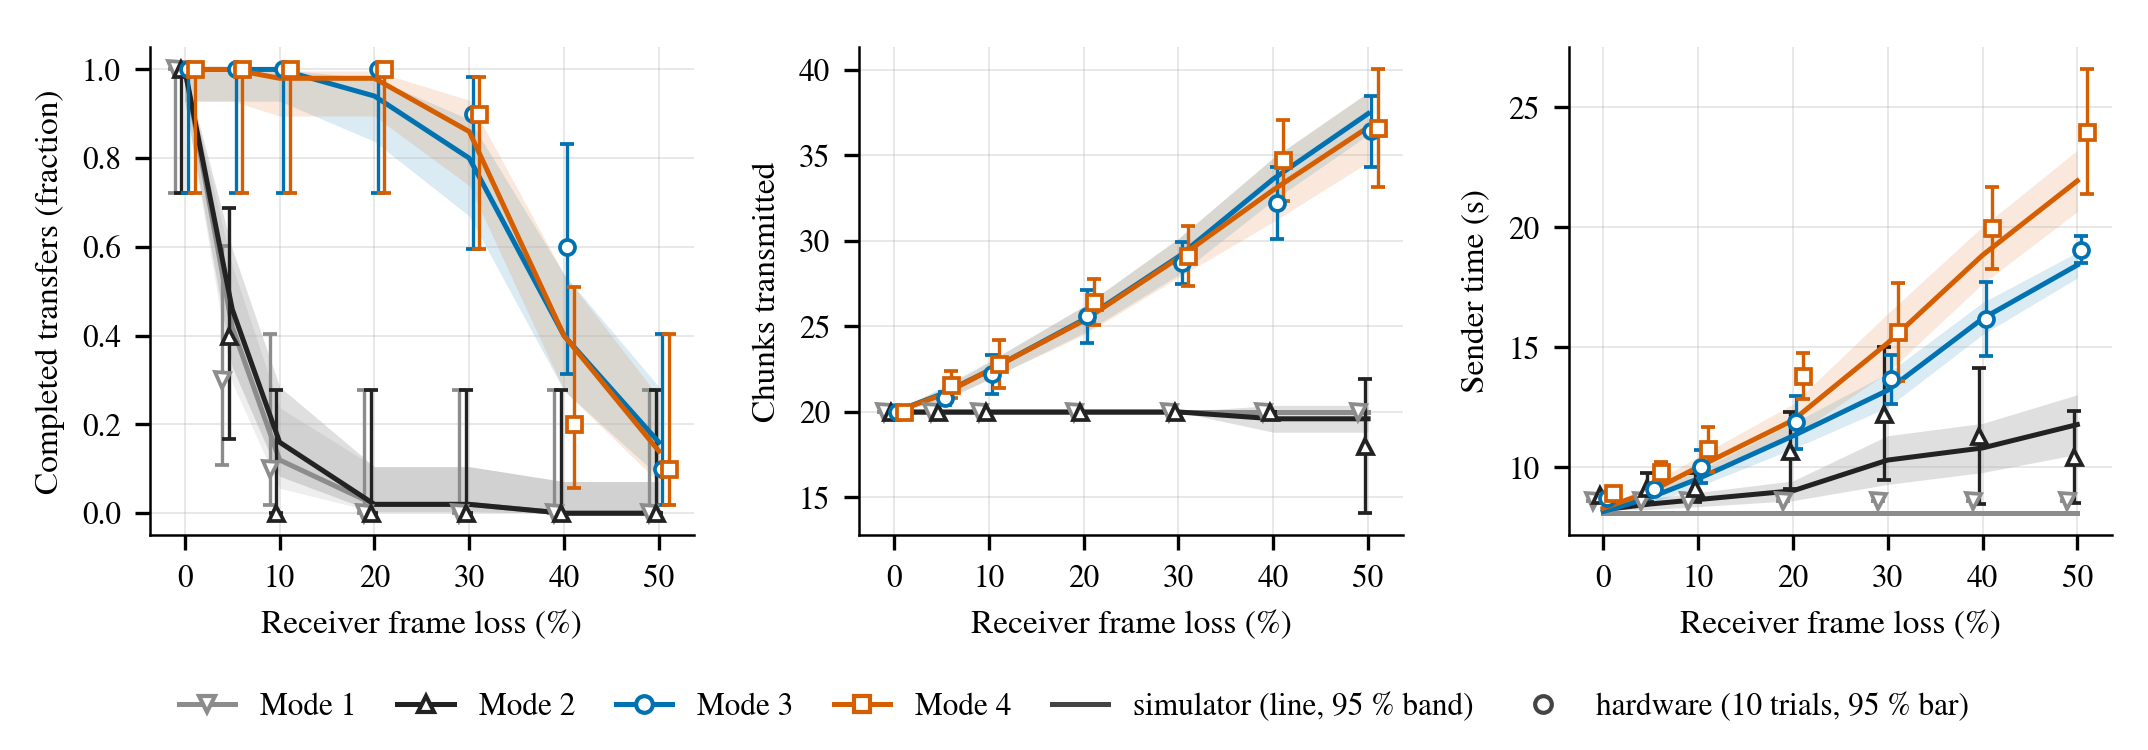
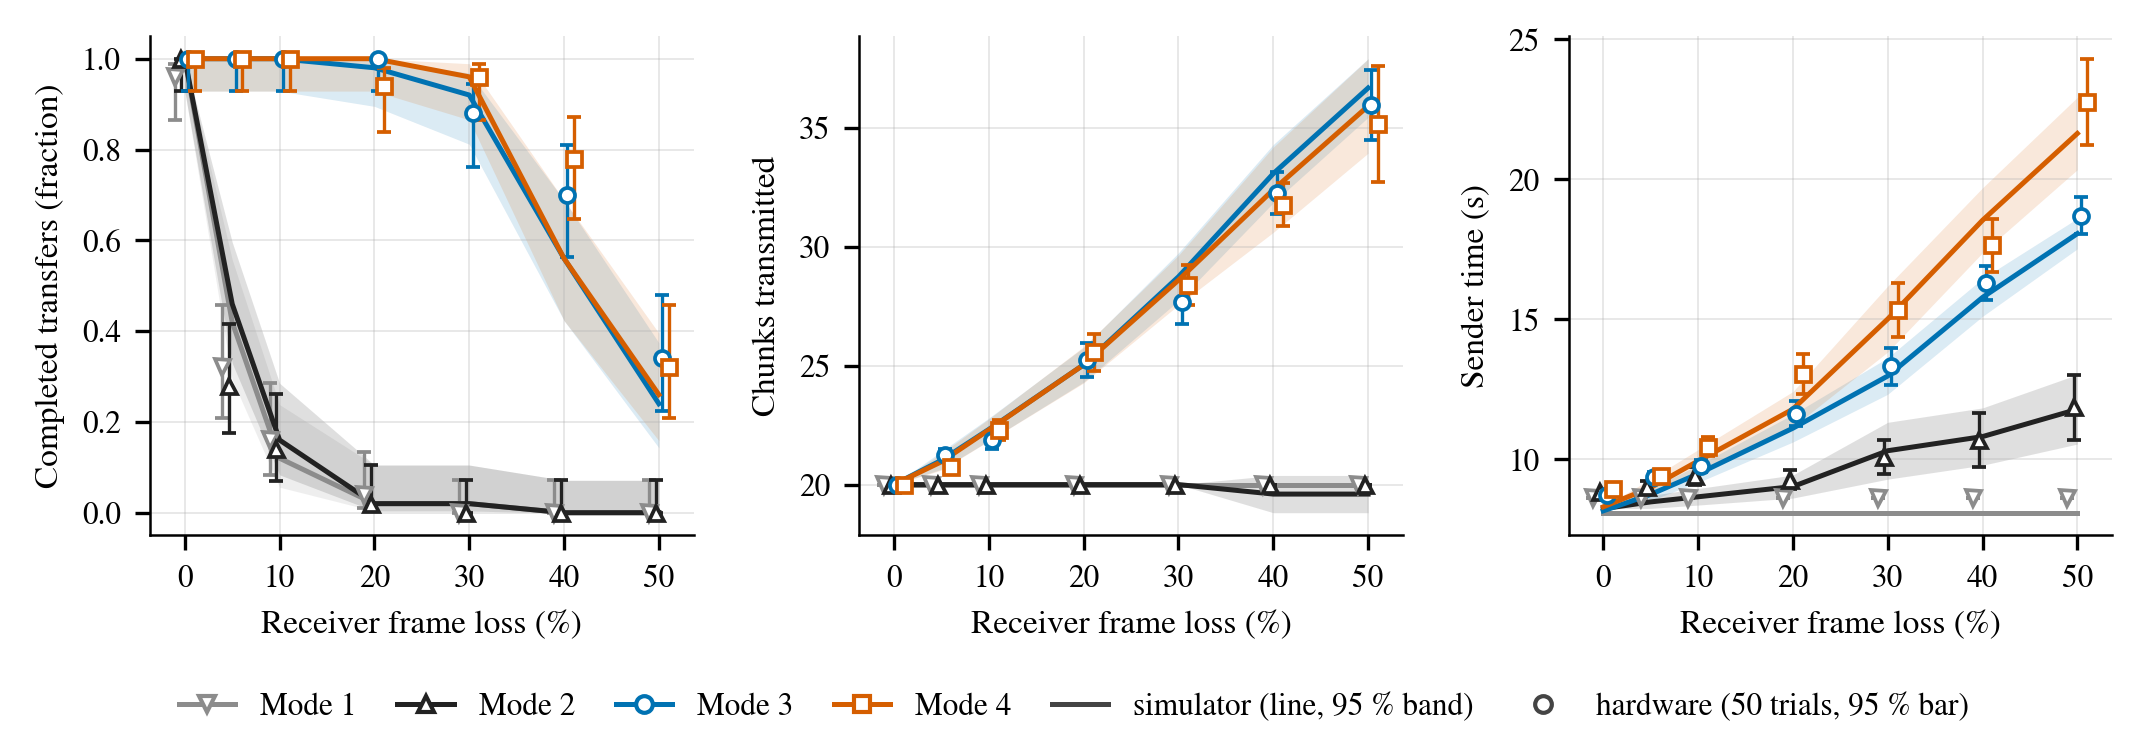
feat(paper): update Table VII and Fig. 6 with complete 50-trial hardware bench data
- Replace 10-trial hardware bench results with complete 50-trial empirical sweep at SF7 across Modes 1-4 and 0-50% emulated frame loss
- Update completion fractions in Table VII and refresh Fig. 6 comparison plot against 50 simulation seeds
- Maintain 9-page limit for the manuscript

diff --git a/paper.tex b/paper.tex
@@ -852,7 +852,7 @@ $PDR_{\mathrm{app}}$ is the number of distinct chunks received divided by $N$. G
 \begin{figure*}[t]
 \centering
 \includegraphics[width=\textwidth]{img/hw_vs_sim_sf7.png}
-\caption{Hardware bench versus simulator at SF7 with emulated receiver frame loss (20 chunks): completed transfers, chunks transmitted and sender time. Lines and bands: simulator (50 seeds, 95\% intervals); markers and bars: hardware (10 trials, 95\% intervals).}
+\caption{Hardware bench versus simulator at SF7 with emulated receiver frame loss (20 chunks): completed transfers, chunks transmitted and sender time. Lines and bands: simulator (50 seeds, 95\% intervals); markers and bars: hardware (50 trials, 95\% intervals).}
 \label{fig:hw_vs_sim}
 \end{figure*}
 
@@ -917,24 +917,24 @@ Extended parametric evaluations are detailed in Section~S-IV of the companion Su
 
 \subsection{Functional Validation on Hardware with Emulated Frame Loss}
 \label{sec:hw_validation}
-To verify that firmware timing and state transitions match the simulator, the two Heltec nodes of Section~\ref{sec:hw_validation_setup} were driven by a host script across 10 trials per mode at SF7 for $p \in \{0,5,10,20,30,40,50\}\%$ emulated receiver frame loss (and 5 trials at SF10 for $p \in \{0,20,40\}\%$, repeating handshakes up to 6 times). Table~\ref{tab:hwsim} and Fig.~\ref{fig:hw_vs_sim} compare hardware against 50 simulation seeds. Across all 40 evaluated points, 95\% confidence intervals for completion fraction, transmitted chunks, and sender time overlap consistently. Reliable modes (Modes~3 and~4) maintain 100\% delivery up to 20\% loss and 90\% at 30\% loss. Measured hardware sender time is on average 7\% (SF7) and 3\% (SF10) above simulated values due to microcontroller SPI overhead and FreeRTOS task scheduling jitter.
+To verify that firmware timing and state transitions match the simulator, the two Heltec nodes of Section~\ref{sec:hw_validation_setup} were driven by a host script across 50 trials per mode at SF7 for $p \in \{0,5,10,20,30,40,50\}\%$ emulated receiver frame loss (and 5 trials at SF10 for $p \in \{0,20,40\}\%$, repeating handshakes up to 6 times). Table~\ref{tab:hwsim} and Fig.~\ref{fig:hw_vs_sim} compare hardware against 50 simulation seeds. Across all evaluated points, 95\% confidence intervals for completion fraction, transmitted chunks, and sender time overlap consistently. Reliable modes (Modes~3 and~4) maintain over 94\% delivery up to 20\% loss and over 88\% at 30\% loss. Measured hardware sender time is on average 5\% (SF7) and 3\% (SF10) above simulated values due to microcontroller SPI overhead and FreeRTOS task scheduling jitter.
 
 \begin{table}[htpb]
 \centering
-\caption{Fraction of completed 20-chunk transfers at SF7, hardware (10 trials) / simulator (50 seeds).}
+\caption{Fraction of completed 20-chunk transfers at SF7, hardware (50 trials) / simulator (50 seeds).}
 \label{tab:hwsim}
 \renewcommand{\arraystretch}{1.0}
 \footnotesize
 \begin{tabular}{|c|c|c|c|}
 \hline
 \textbf{Frame loss} & \textbf{Mode 1} & \textbf{Mode 3} & \textbf{Mode 4} \\ \hline
-0\% & 1.0 / 1.00 & 1.0 / 1.00 & 1.0 / 1.00 \\ \hline
-5\% & 0.3 / 0.42 & 1.0 / 1.00 & 1.0 / 1.00 \\ \hline
-10\% & 0.1 / 0.12 & 1.0 / 1.00 & 1.0 / 0.98 \\ \hline
-20\% & 0.0 / 0.02 & 1.0 / 0.94 & 1.0 / 0.98 \\ \hline
-30\% & 0.0 / 0.02 & 0.9 / 0.80 & 0.9 / 0.86 \\ \hline
-40\% & 0.0 / 0.00 & 0.6 / 0.40 & 0.2 / 0.40 \\ \hline
-50\% & 0.0 / 0.00 & 0.1 / 0.16 & 0.1 / 0.14 \\ \hline
+0\% & 0.96 / 1.00 & 1.00 / 1.00 & 1.00 / 1.00 \\ \hline
+5\% & 0.32 / 0.42 & 1.00 / 1.00 & 1.00 / 1.00 \\ \hline
+10\% & 0.16 / 0.12 & 1.00 / 1.00 & 1.00 / 1.00 \\ \hline
+20\% & 0.04 / 0.02 & 1.00 / 0.98 & 0.94 / 1.00 \\ \hline
+30\% & 0.00 / 0.02 & 0.88 / 0.92 & 0.96 / 0.96 \\ \hline
+40\% & 0.00 / 0.00 & 0.70 / 0.56 & 0.78 / 0.56 \\ \hline
+50\% & 0.00 / 0.00 & 0.34 / 0.24 & 0.32 / 0.26 \\ \hline
 \end{tabular}
 \end{table}
 
